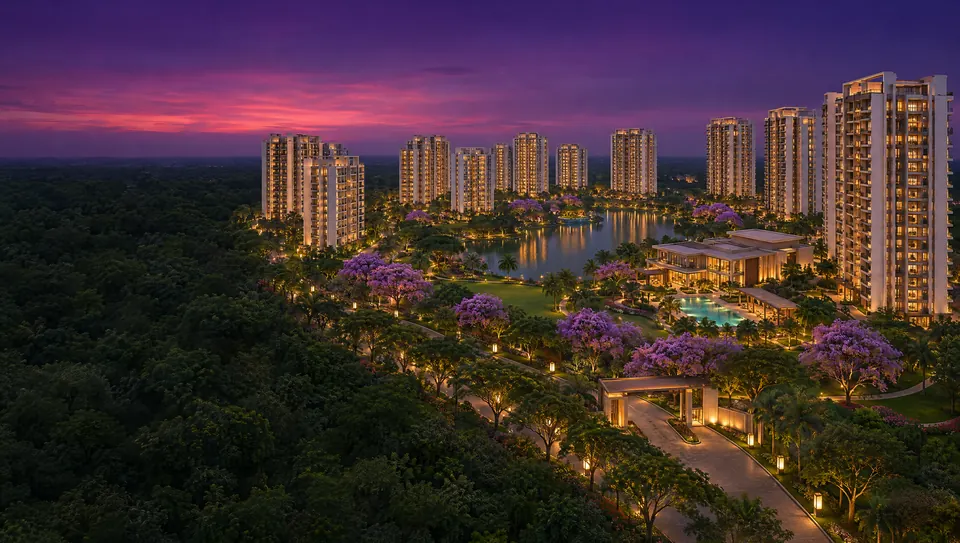
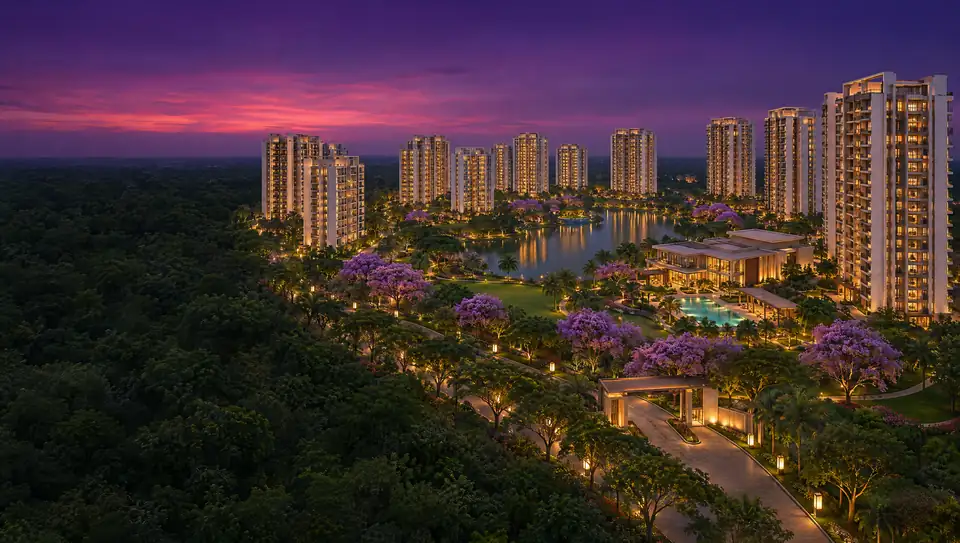
Keep the hero image visible and make it load faster
The hero still ran the old three-slide fade cycle, which hid the single image
for two thirds of every 18 seconds, so the hero looked like a flat colour.
The image is now always shown, spans the full hero, sits under a lighter
wash, and has a sky-coloured gradient behind it while it downloads. Both
image files are recompressed (185 KB to 157 KB, 86 KB to 60 KB).

Claude-Session: https://claude.ai/code/session_01UZNGptRzZe7iGZ9XxCYRAP

diff --git a/index.html b/index.html
@@ -18,7 +18,7 @@
 <link rel="preconnect" href="https://fonts.googleapis.com">
 <link rel="preconnect" href="https://fonts.gstatic.com" crossorigin>
 <link href="https://fonts.googleapis.com/css2?family=Figtree:wght@300;400;500;600;700&family=Source+Serif+4:ital,opsz,wght@0,8..60,400;0,8..60,600;1,8..60,400&display=swap" rel="stylesheet">
-<link rel="preload" as="image" href="assets/img/hero-twilight.webp" imagesrcset="assets/img/hero-twilight-960.webp 960w, assets/img/hero-twilight.webp 1600w" imagesizes="(min-width: 900px) 70vw, 100vw">
+<link rel="preload" as="image" href="assets/img/hero-twilight.webp" imagesrcset="assets/img/hero-twilight-960.webp 960w, assets/img/hero-twilight.webp 1600w" imagesizes="100vw">
 <link rel="stylesheet" href="assets/css/styles.css">
 
 <script src="assets/js/config.js"></script>
@@ -103,7 +103,7 @@
 
 <!-- ============ BANNER ============ -->
 <section class="banner hero" id="hero" aria-label="SOBHA ParQ City">
-  <img class="hero-slide" src="assets/img/hero-twilight.webp" srcset="assets/img/hero-twilight-960.webp 960w, assets/img/hero-twilight.webp 1600w" sizes="(min-width: 900px) 70vw, 100vw" width="1600" height="905" alt="Aerial view of a township among trees at dusk, artist's impression" fetchpriority="high">
+  <img class="hero-slide" src="assets/img/hero-twilight.webp" srcset="assets/img/hero-twilight-960.webp 960w, assets/img/hero-twilight.webp 1600w" sizes="100vw" width="1600" height="905" alt="Aerial view of a township among trees at dusk, artist's impression" fetchpriority="high">
   <p class="hero-rep">Artist's impression. Image for representation purposes only</p>
   <div class="hero-shade" aria-hidden="true"></div>
   <div class="wrap hero-grid">

diff --git a/assets/css/styles.css b/assets/css/styles.css
@@ -1106,3 +1106,14 @@ button.hero-eoi:hover, .action-bar .ab-enquire:hover,
 .close-sec .modal-perks li { color: #ece6f6; }
 .modal .btn-submit { background: var(--cta); border-color: #c9a253; color: var(--cta-ink); font-weight: 700; }
 .modal .btn-submit:hover { background: linear-gradient(100deg, #f8ebc6 0%, #ecd08d 48%, #d6b061 100%); color: var(--cta-ink); }
+
+/* hero image: one still image, always visible. The old three-slide fade cycle left a single image
+   hidden for two thirds of every 18 seconds, so the hero read as a flat colour. */
+.hero > .hero-slide { animation: none; opacity: 1; }
+/* sky-coloured placeholder while the image downloads */
+.hero { background: linear-gradient(180deg, #2a1d47 0%, #3a2560 38%, #6d3f79 56%, #20182f 64%, #14101f 100%); }
+/* lighter wash so the township stays visible behind the copy */
+.hero-shade { background: linear-gradient(90deg, rgba(28,19,51,.9) 0%, rgba(28,19,51,.78) 28%, rgba(28,19,51,.4) 48%, rgba(28,19,51,.08) 70%, rgba(28,19,51,0) 100%), linear-gradient(0deg, rgba(28,19,51,.45), transparent 35%); }
+@media (max-width: 899px) { .hero-shade { background: linear-gradient(180deg, rgba(28,19,51,.5) 0%, rgba(28,19,51,.62) 45%, rgba(28,19,51,.8) 100%); } }
+/* image spans the full hero so there is no hard edge where it used to start */
+@media (min-width: 900px) { .hero > .hero-slide { left: 0; right: 0; width: 100%; object-position: 50% 55%; } }
